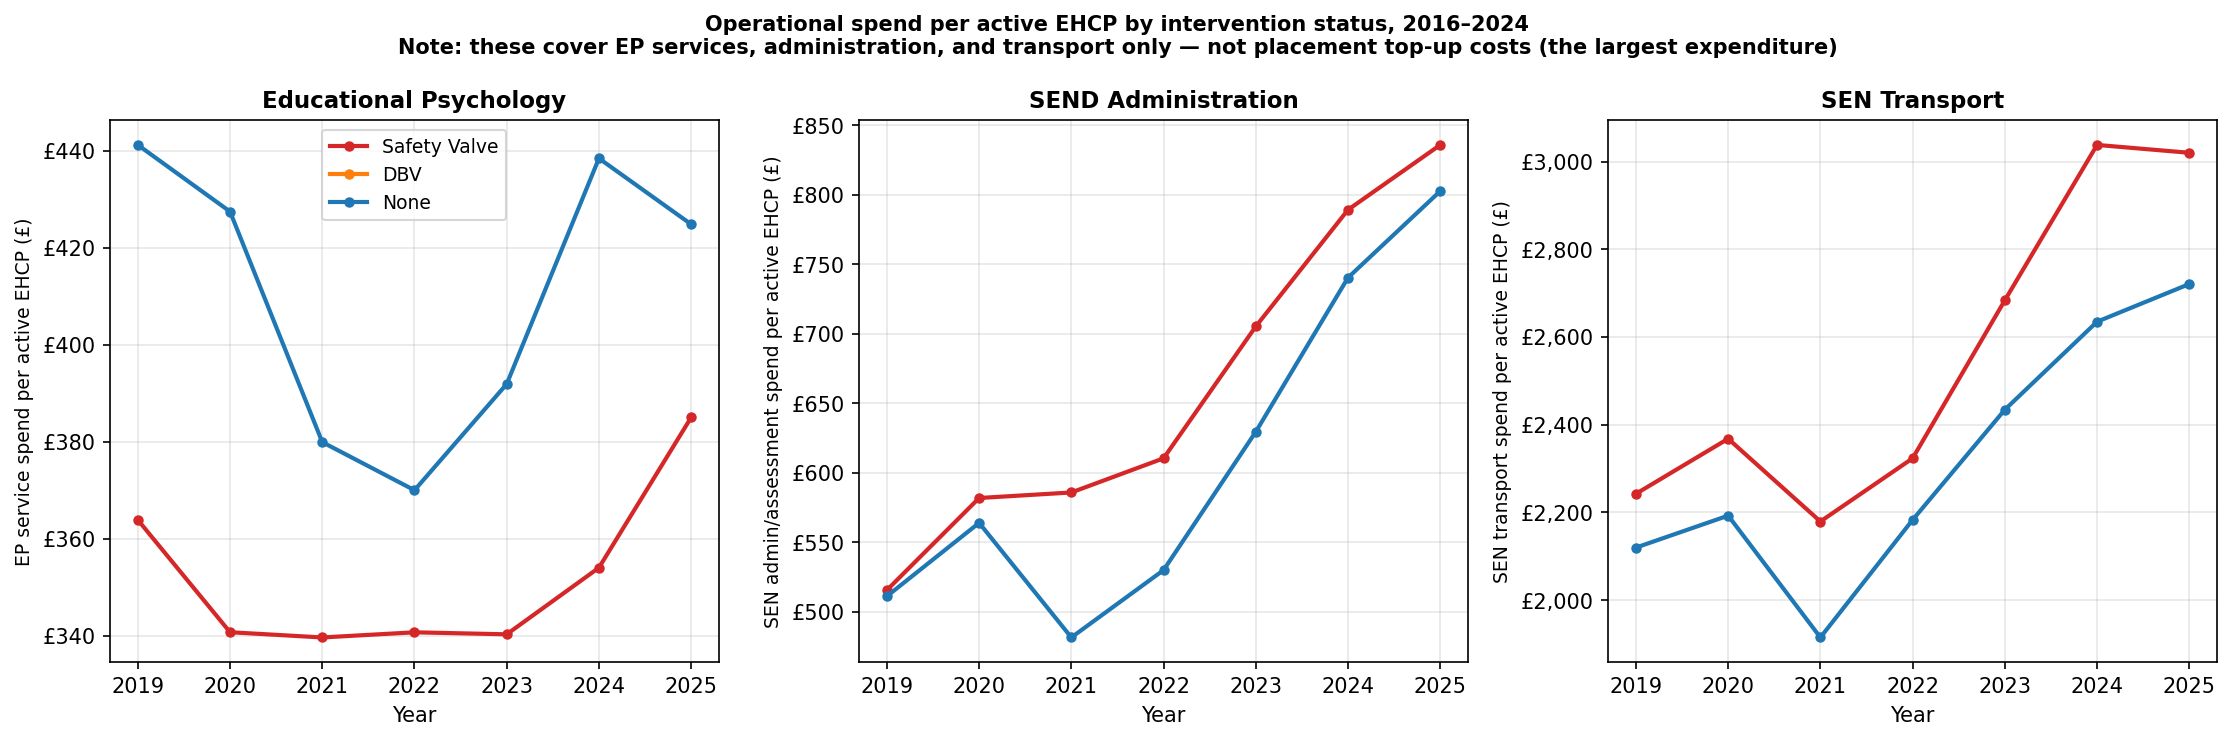
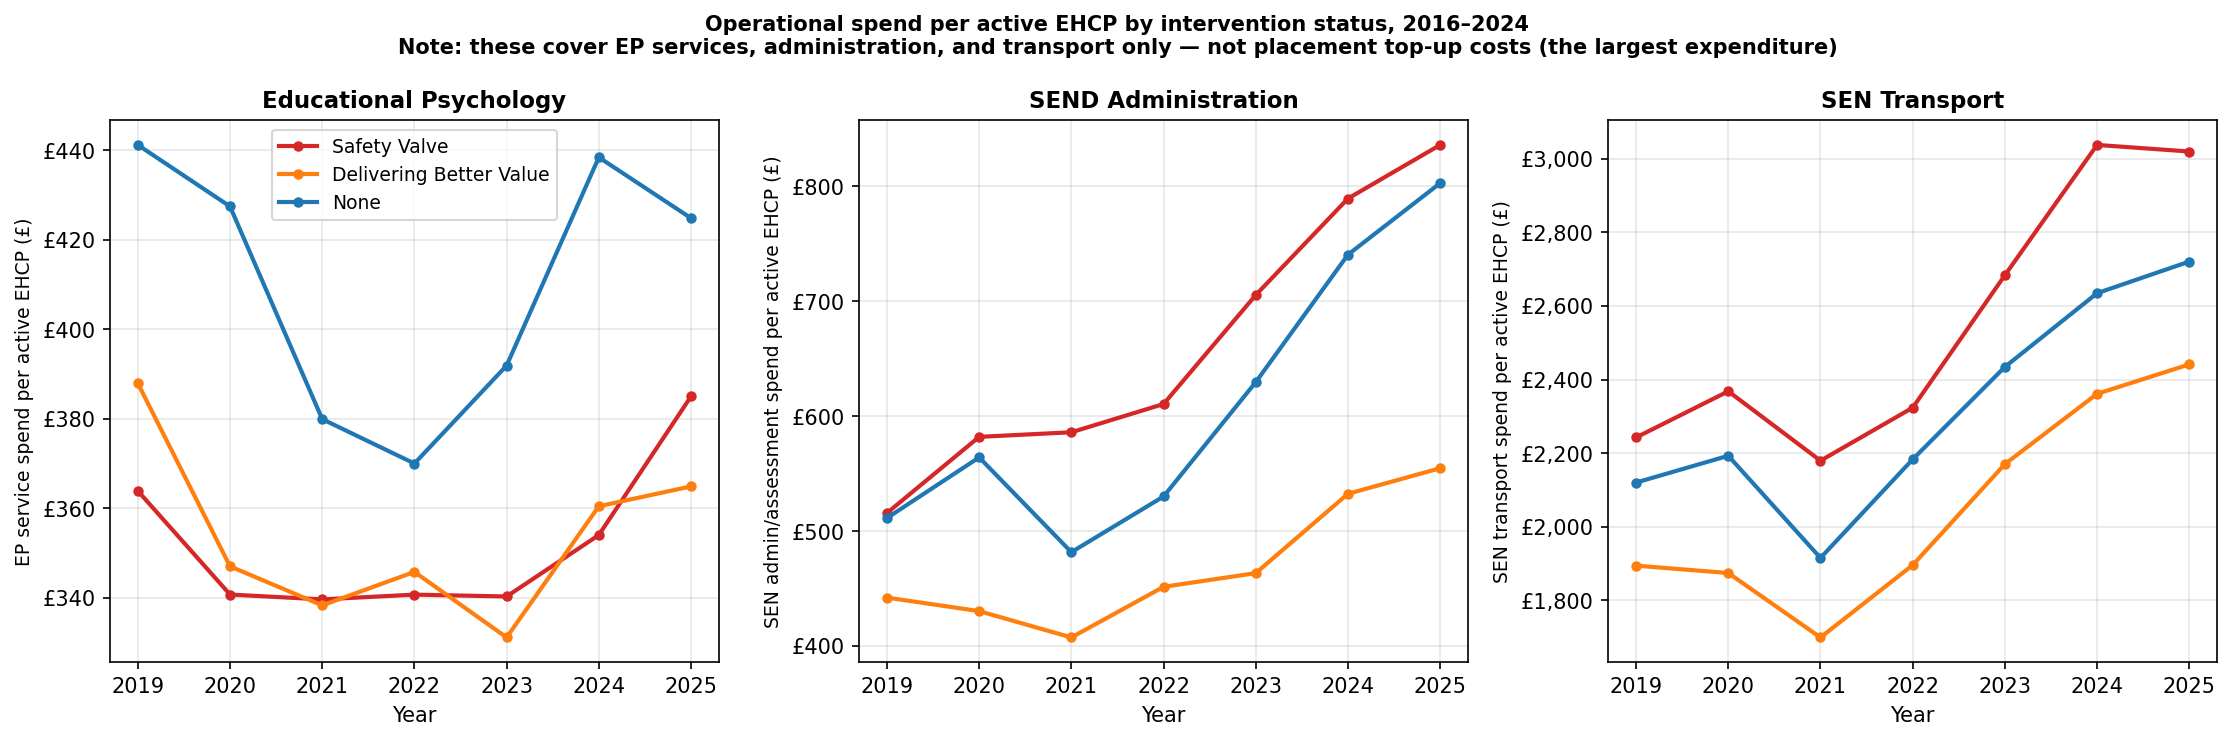
Fix data errors and inconsistencies ahead of journalist release
- Fix figure 17 blank DBV panel: timeliness_analysis.py used 'DBV' as
  status key but data uses 'Delivering Better Value'; regenerate figs 17-20
- Correct README high-risk council list from 4 to 6 (add Lewisham, Central
  Bedfordshire); add official classification disclaimer
- Merge duplicate README Caveats sections (7 consolidated points) and remove
  duplicate Licence section
- Correct pre-entry SV timeliness gap: article.md used all-pre-entry figure
  (54.0%, 10.2pp) where 3yr window (-3 to -1) is the right comparator
  (52.6%, 11.6pp, consistent with FINDINGS.md)
- Fix expanded regression sample size: n=150 → n=147 in article.md
- Fix Model G placement AUC range: 'from 2018 onward' → 'from 2019 onward'
  in article_forecastability.md; correct 'across all training years' claim
  in article_postmortem.md (2016-18 AUC is 0.56-0.72, not 0.72-0.80)
- Add AUC year qualifier to README key finding (2020 training year)
- Rename prediction_analysis.py figure 14 → 14b to resolve collision with
  capacity_analysis.py figure 14_causal_chain
- Add Enfield exclusion note to briefing_note and article_forecastability
- Add Hackney/Peterborough data suppression caveat to FINDINGS.md

diff --git a/timeliness_analysis.py b/timeliness_analysis.py
@@ -26,8 +26,8 @@ ROOT     = Path(__file__).parent
 FIG_DIR  = ROOT / 'outputs' / 'figures'
 TABLE_DIR = ROOT / 'outputs' / 'tables'
 
-COLORS = {'Safety Valve': '#d62728', 'DBV': '#ff7f0e', 'None': '#1f77b4'}
-STATUS_ORDER = ['Safety Valve', 'DBV', 'None']
+COLORS = {'Safety Valve': '#d62728', 'Delivering Better Value': '#ff7f0e', 'None': '#1f77b4'}
+STATUS_ORDER = ['Safety Valve', 'Delivering Better Value', 'None']
 
 def safe(s):
     return pd.to_numeric(
@@ -352,7 +352,7 @@ ax.set_yticks(y_pos)
 ax.set_yticklabels(tim24_sorted['la_name'].fillna(tim24_sorted['la_code']), fontsize=6)
 ax.set_xlabel('Percentage of plans issued (%)', fontsize=11)
 ax.set_title('Timeliness breakdown by local authority, 2024\n'
-             'Right-edge bars: ■ Safety Valve  ■ DBV  ■ No intervention',
+             'Right-edge bars: ■ Safety Valve  ■ Delivering Better Value  ■ No intervention',
              fontsize=11, fontweight='bold')
 ax.axvline(100, color='grey', lw=0.5, alpha=0.4)
 ax.set_xlim(0, 107)

diff --git a/prediction_analysis.py b/prediction_analysis.py
@@ -301,9 +301,9 @@ ax2.set_title('Model coefficients\n(standardised predictors)', fontsize=12, font
 ax2.grid(True, axis='x', alpha=0.3)
 
 plt.tight_layout()
-fig.savefig(FIG_DIR / '14_retrospective_roc.png', dpi=150, bbox_inches='tight')
+fig.savefig(FIG_DIR / '14b_retrospective_roc.png', dpi=150, bbox_inches='tight')
 plt.close()
-print("  Saved figure 14")
+print("  Saved figure 14b")
 
 # ── Figure 15: 2016 early warning list ──────────────────────────────────────
 ranked = model_data.sort_values('loo_prob', ascending=False).reset_index(drop=True)

diff --git a/README.md b/README.md
@@ -29,9 +29,9 @@ Two analyses are published here:
 | 2021 | E: Counts + timeliness | Composite collapse | **0.82** |
 | 2021 | G: Signals only | Legal-pressure collapse | **0.88** |
 
-**Key finding:** Need-type growth (Model B) predicted timeliness collapse as well as or better than system-failure signals (AUC 0.66 vs 0.50); but for legal-pressure and placement collapse, tribunal rates and independent spend dominated.
+**Key finding:** Need-type growth (Model B) predicted timeliness collapse as well as or better than system-failure signals (AUC 0.66 vs 0.50 at the 2020 training year); but for legal-pressure and placement collapse, tribunal rates and independent spend dominated.
 
-**High-risk councils with no current DfE intervention:** Bristol (risk score 0.90), Birmingham (0.82), Bromley (0.77), Staffordshire (0.69).
+**High-risk councils with no current DfE intervention:** Bristol (risk score 0.90), Birmingham (0.82), Bromley (0.77), Lewisham (0.72), Staffordshire (0.69), Central Bedfordshire (0.64). These are model outputs indicating structural similarity to councils already in collapse; they are not official classifications.
 
 ---
 
@@ -146,26 +146,10 @@ The `forecastability_analysis.py` script predicts system collapse in 2022–2024
 
 ---
 
-## Caveats
-
-1. **Refusal rate inflation by backlogs:** Councils with large backlogs show lower apparent refusal rates (decisions pending). Delay-as-gatekeeping is not captured by refusal rates.
-2. **Forecastability ≠ causal mechanism:** High AUC from early tribunal rates reflects partly autocorrelation (persistent structural conditions), not pure prediction of future events.
-3. **DSG balance ≠ operational capacity:** End-of-year carry-forward is an accounting figure; staffing headcount is the key missing variable.
-4. **Scenario projections are sensitivity illustrations, not forecasts:** Real-world dynamics (policy interventions, capital programmes) are not modelled.
-5. **Selection into Safety Valve:** SV LAs were already performing worse before programme entry. Cross-sectional comparisons cannot establish causation.
-
----
-
-## Licence
-
-Code: MIT. Data outputs in `outputs/` are derived from Crown Copyright data (Open Government Licence v3.0).
-
----
-
 ## Methodology notes
 
 - **Non-parametric tests:** Mann-Whitney U (two-group) and Kruskal-Wallis H (three-group) for all group comparisons, given non-normal distributions.
-- **OLS regressions:** DV ∈ {refusal rate, timeliness, tribunal rate}; predictors: DSG financial stress per pupil, IMD 2019 average score, region fixed effects. Two samples: n=50 (hardcoded DSG estimates) and n≈150 (S251 full data).
+- **OLS regressions:** DV ∈ {refusal rate, timeliness, tribunal rate}; predictors: DSG financial stress per pupil, IMD 2019 average score, region fixed effects. Two samples: n=50 (hardcoded DSG estimates) and n=147 (S251 full data).
 - **Event study:** Safety Valve entry year as t=0; outcomes averaged by event-time for SV vs no-intervention LAs. Pre-period uses tribunal data back to 2014.
 - **Mediation (Baron-Kenny):** Chain: DSG deficit → throughput stress (M1) → 20-week timeliness (M2) → tribunal appeal rate. Sobel test for each indirect path. All paths non-significant in the 134-LA sample.
 - **Small LAs excluded:** City of London and Isles of Scilly excluded from all statistical tests due to tiny population.
@@ -176,9 +160,11 @@ Code: MIT. Data outputs in `outputs/` are derived from Crown Copyright data (Ope
 
 1. **Refusal rate inflation by backlogs:** LAs with large backlogs show lower *apparent* refusal rates (decisions still pending). Gatekeeping via delay rather than formal refusal is not captured by refusal rates.
 2. **Timeliness and tribunal clock-stopping:** LAs can pause the statutory 20-week clock during mediation/tribunal proceedings, which may depress reported timeliness independently of capacity.
-3. **DSG balance ≠ operational capacity:** End-of-year DSG carry-forward is an accounting figure; it does not directly measure staffing levels or throughput capacity.
-4. **Selection into Safety Valve:** SV LAs were already performing worse before programme entry (pre-entry timeliness gap: −10.2 pp). Causal inference from cross-sectional comparisons should be treated with caution.
-5. **Parallel trends unverifiable:** The event study has only 3 pre-entry years of SEN2 process data (2019–2021) for most SV LAs, limiting formal DiD assumptions.
+3. **Forecastability ≠ causal mechanism:** High AUC from early tribunal rates reflects partly autocorrelation (persistent structural conditions), not pure prediction of future events.
+4. **DSG balance ≠ operational capacity:** End-of-year DSG carry-forward is an accounting figure; it does not directly measure staffing levels or throughput capacity.
+5. **Scenario projections are sensitivity illustrations, not forecasts:** Real-world dynamics (policy interventions, capital programmes) are not modelled.
+6. **Selection into Safety Valve:** SV LAs were already performing worse before programme entry (pre-entry timeliness gap: −11.6 pp, three years before entry). Causal inference from cross-sectional comparisons should be treated with caution.
+7. **Parallel trends unverifiable:** The event study has only 3 pre-entry years of SEN2 process data (2019–2021) for most SV LAs, limiting formal DiD assumptions.
 
 ---
 

diff --git a/article_forecastability.md b/article_forecastability.md
@@ -84,7 +84,7 @@ Second, the model is predictive, not causal. The finding is *consistent with* a 
 
 For legal-pressure collapse (high tribunal rates), Model G achieves AUC 0.71 from 2016 data and 0.88 from 2021 data. Model B (need-type counts) achieves AUC 0.77 from 2019 data — meaningful, but consistently below G. The tribunal rate itself has strong autocorrelation: councils with high appeal rates in 2016–2018 continued to have high appeal rates in 2022–2024. This reflects a persistent structural condition — a combination of plan quality, parental expectation, and the local advice ecosystem — that is not primarily driven by recent caseload growth.
 
-For placement/cost collapse, the pattern is similar: Model G achieves AUC 0.75–0.80 from 2018 onward; Model B reaches 0.70–0.73 from 2019. The full model (H) achieves the highest AUC for placement collapse (0.86 from 2019), suggesting that need-type growth and system signals together explain placement concentration better than either does alone. This is consistent with a pattern in which councils facing both high ASD/SEMH demand (associated with higher rates of specialist provision) and a high pre-existing reliance on independent placements were more likely to accumulate further placements — though the direction of causality between these factors cannot be established from the cross-sectional data.
+For placement/cost collapse, the pattern is similar: Model G achieves AUC 0.75–0.80 from 2019 onward (0.72 at 2018); Model B reaches 0.70–0.73 from 2019. The full model (H) achieves the highest AUC for placement collapse (0.86 from 2019), suggesting that need-type growth and system signals together explain placement concentration better than either does alone. This is consistent with a pattern in which councils facing both high ASD/SEMH demand (associated with higher rates of specialist provision) and a high pre-existing reliance on independent placements were more likely to accumulate further placements — though the direction of causality between these factors cannot be established from the cross-sectional data.
 
 **Composite collapse — signals dominated, but need-type growth contributed.**
 
@@ -138,6 +138,8 @@ Most of the top-ranked councils are already in DfE intervention programmes, vali
 | Central Bedfordshire | 0.64 (High) | 26.5% | 2.5% | 1.0 |
 
 Several of these councils are already showing collapse-level metrics on individual indicators. Bristol's mean timeliness over 2022–2024 was 37.5% (below the 40% collapse threshold), Bromley's was 33.7%, and Staffordshire's was 33.5%. Central Bedfordshire's mean timeliness of 26.5% is among the worst individual performances of any council in the country. These are observations about the current data, not predictions about future programme entry.
+
+*Note on selection: Enfield scores 0.69 on the same model but is excluded from this shortlist because its mean 20-week timeliness is 89.7% — the highest of any high-scoring council — and it shows no crisis signal on any individual indicator. The shortlist above shows councils whose model risk score is corroborated by actual deterioration in at least one observable outcome.*
 
 ---
 

diff --git a/article_postmortem.md b/article_postmortem.md
@@ -46,7 +46,7 @@ One important caveat: a model using only total EHCP demand — ignoring need typ
 
 **For legal-pressure and placement failure, the warning was in the financial and legal data.**
 
-A model using tribunal appeal rate and independent top-up spend as a percentage of DSG — both published annually since 2015/16 — achieves AUC 0.71 for legal-pressure collapse from 2016 data alone, rising to 0.88 by 2021. For placement and cost collapse, the same signals achieve AUC 0.72–0.80 across the training years, with the full model reaching 0.86 from 2019.
+A model using tribunal appeal rate and independent top-up spend as a percentage of DSG — both published annually since 2015/16 — achieves AUC 0.71 for legal-pressure collapse from 2016 data alone, rising to 0.88 by 2021. For placement and cost collapse, the same signals achieve AUC 0.72–0.80 from 2019 onward (0.56–0.72 in 2016–2018 as the signal builds), with the full model reaching 0.86 from 2019.
 
 The tribunal rate has strong autocorrelation: councils that were attracting high appeal rates in 2014–2016 continued to do so in 2022–2024. This is not purely a prediction of future events — it partly reflects a persistent structural condition in how some councils operate, how local advice ecosystems work, and how parental awareness and expectations vary. But it is precisely that persistence that makes it a useful early signal: a council running above-average tribunal rates in 2016 was structurally more likely to be in the high-appeal group six years later.
 

diff --git a/outputs/FINDINGS.md b/outputs/FINDINGS.md
@@ -449,4 +449,10 @@ which is incompatible with the 2–4 year Safety Valve timescales.
 5. **Data vintage**: GIAS as of May 2026; SEN2 data from 2023-24 academic year.
    Some new special schools opened or converted in the intervening period.
 
+6. **DfE data suppression in `indep_per_1000`**: The `special_independent` placement count
+   in the SEN2 caseload file is suppressed (`x` → NaN → 0) for several LAs with small counts
+   (notably Hackney, Peterborough). Where a council shows `indep_per_1000 = 0` alongside a
+   non-zero `topup_independent_pct`, the zero reflects suppression, not genuine absence of
+   independent placements. Risk scores for these LAs may be understated.
+
 *Generated: 2026-05-12 using GIAS, DfE SEN2 2025, S251 2024-25*

diff --git a/briefing_note.md b/briefing_note.md
@@ -35,7 +35,7 @@ A predictive model trained on 2021 features — with no knowledge of Safety Valv
 
 Several are already in collapse on individual indicators. Central Bedfordshire's 26.5% mean timeliness is among the worst of any council nationally. These are observations, not predictions: the crisis is present, not merely approaching.
 
-*Risk scores are model outputs reflecting structural similarity to councils that entered collapse — not official designations.*
+*Risk scores are model outputs reflecting structural similarity to councils that entered collapse — not official designations. Enfield (score 0.69) is excluded from this shortlist because its 20-week timeliness is 89.7% — no crisis signal on any individual indicator.*
 
 ---
 
